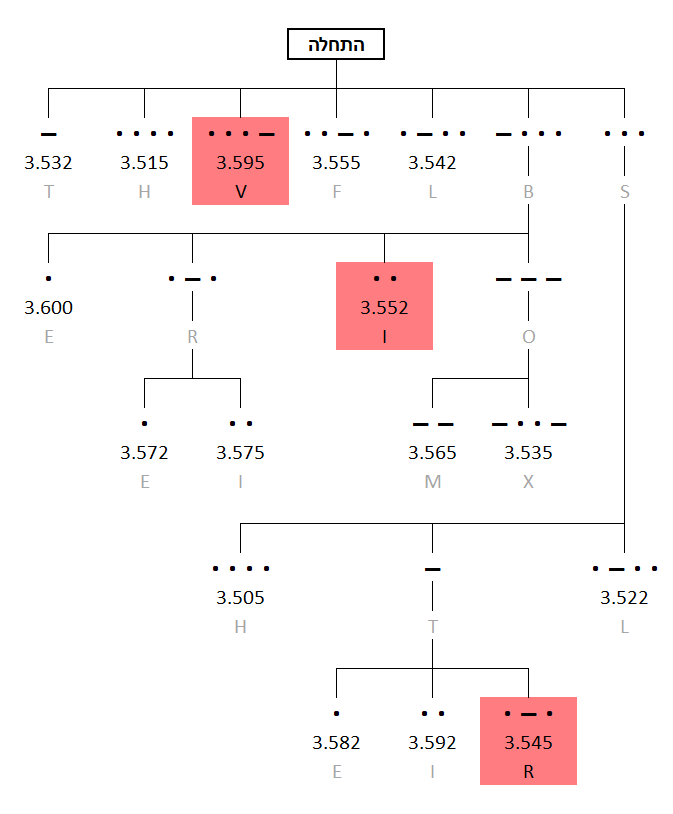
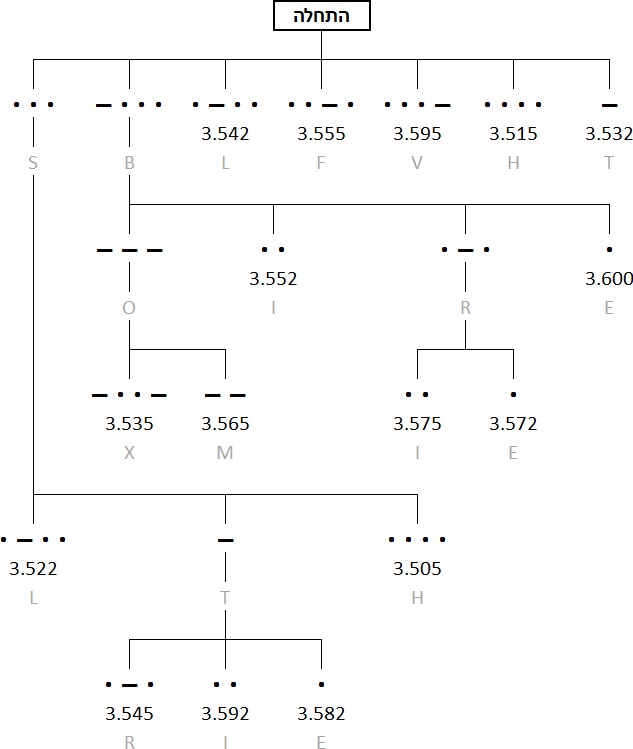
page 9: whos-on-first-step1 direction fix
rtl to ltr
+ small proofreading updates

diff --git a/manualsimplified/index.html b/manualsimplified/index.html
@@ -249,7 +249,7 @@
 								<span class="wire-header">5 חוטים:</span>
 								<br /><span><b><i>לשאול</i></b> '&#35; אחרונה בסיריאלי אי-זוגית'? 'צבע חוט חמישי'?</span>
 								<br /><span>אם (חמישי <span class='black'>שחור</span>) וגם (&#35; אחרונה אי-זוגית): לחתוך חוט רביעי.</span>
-                                <br /><span><b><i>לשאול</i></b> 'כמה <span class='red'>אדומים</span> / <span class='black'>שחורים</span> / <span class='yellow'>צהובים</span>'?</span>
+                                <br /><span><b><i>לשאול</i></b> 'כמה <span class='black'>שחורים</span> / <span class='red'>אדומים</span> / <span class='yellow'>צהובים</span>'?</span>
 								<br /><span>אם (<span class='black'>שחורים</span> = 0) וגם [(<span class='red'>אדומים</span> &#8800; 1) או (<span class='yellow'>צהובים</span> &#60; 2)]: לחתוך חוט שני.</span>
 								<br /><span>אחרת, לחתוך חוט ראשון.</span>
 							</td>
@@ -1031,7 +1031,7 @@
 					<h2>בנושא הזיכרון</h2>
 					<p class="flavour-text">זיכרון הוא דבר רגיש, אך כך גם כל דבר אחר כשמדובר פצצה, אז שימו לב!</p>
 					<ul>
-						<li>יש ללחוץ על הכפתור הנכון כדי להמשיך את המודול לשלב הבא. כדי לנטרל את המודול יש להשלים את כל השלבים.</li>
+						<li>יש ללחוץ על הכפתור הנכון כדי שהמודול ימשיך אל השלב הבא. כדי לנטרל את המודול יש להשלים את כל השלבים.</li>
 						<li>לחיצה על כפתור שגוי תאפס את המודול בחזרה לשלב 1.</li>
 						<li>מיקומי הכפתור מסודרים משמאל לימין.</li>
 					</ul>
@@ -1119,7 +1119,7 @@
 					<h2>בנושא החוטים המסובכים</h2>
 					<p class="flavour-text">חוטים אלה אינם כמו האחרים. לחלקם יש פסים! זה הופך אותם לשונים לחלוטין. החדשות הטובות הן שמצאנו קבוצה תמציתית של הוראות מה לעשות בנדון! אולי תמציתי מדי&hellip;</p>
 					<ul>
-						<li>התבוננו בכל חוט: יש נורית לד מעל החוט, ומתחתיו מקום לסמל "&#9733;"</li>
+						<li>התבוננו בכל חוט: יש נורית לד מעל החוט, ומתחתיו מקום לסמל "&#9733;".</li>
 						<li>עבור <b>כל שילוב</b> של חוט, נורית לד וסמל - השתמשו בדיאגרמת ון שלהלן כדי להחליט אם לחתוך את החוט או לא.</li>
 						<li>כל חוט עשוי להיות מורכב מפסים במספר צבעים.</li>
 					</ul>
@@ -1976,7 +1976,7 @@
 					<div class="new-block-formatting-context">
 						<h1>סעיף 2: מודולים תלותיים</h1>
 						<p>לא ניתן לנטרל את המודולים התלותיים, אך אלה מהווים סכנה חוזרת ונשנית.</p>
-						<p>מודולים תלותיים ניתנים לזיהוי באמצעות מונה הזמן הדו&#8209;ספרתי הקטן שבחלקם העליון. אינטראקציה עם הפצצה עלולה לגרום להפעלתם. מרגע ההפעלה, יש לטפל במודולים תלותיים אלה באופן חוזר ונשנה לפני שנגמר הזמן שלהם כדי למנוע פסילה</p>
+						<p>מודולים תלותיים ניתנים לזיהוי באמצעות מונה הזמן הדו&#8209;ספרתי הקטן שבחלקם העליון. אינטראקציה עם הפצצה עלולה לגרום להפעלתם. מרגע ההפעלה, יש לטפל במודולים תלותיים אלה באופן חוזר ונשנה לפני שנגמר הזמן שלהם כדי למנוע פסילה.</p>
 						<p>הישארו דרוכים: מודולים תלותיים עשויים להפעיל עצמם מחדש בכל עת.</p>
 					</div>
 				</div>
@@ -2049,8 +2049,8 @@
 					<ul>
 						<li>ניתן להפנות את הידית לאחד מארבעה מצבים.</li>
 						<li>על הידית להיות במצב הנכון כאשר מונה הזמן של המודול מגיע לאפס.</li>
-						<li>את המיקום הנכון ניתן לקבוע על סמך תצורת ההפעלה (דולק/כבוי) של שתים-עשרה נוריות הלד.</li>
-						<li>מצבי הידית הן ביחס לתווית "למעלה", שעלולה להיות מסובבת.</li>
+						<li>את המיקום הנכון ניתן לקבוע על סמך תצורת ההפעלה (מוארת/כבויה) של שתים-עשרה נוריות הלד.</li>
+						<li>מצבי הידית הן ביחס לתווית "UP", שעלולה להיות מסובבת.</li>
 					</ul>
                     <br>
                     <table align="center" style="border:none;">
@@ -2060,7 +2060,7 @@
                                 <td style="border:none;">התווית "UP" עלולה שלא להופיע כלפי מעלה</td>
                             </tr>
                             <tr>
-                                <td style="border:none;"><img src="img/knobs/left-6.png" width="150"></td>
+                                <td style="border:none;"><img src="img/knobs/left-6.png" width="151"></td>
                                 <td style="border:none;"><img src="img/knobs/knob-rotated.png" width="50"></td>
                             </tr>
                         </tbody>
@@ -2079,12 +2079,12 @@
 					        </tr>
 					        <tr>
 					            <td><center><img src="img/knobs/knob-down.png" width="60" /><br>למטה</center></td>
-					            <td><center><img src="img/knobs/down-setting.png" width="150" style="min-width: 150px;min-height: 95px;" /></td>
+					            <td><center><img src="img/knobs/down-setting.png" width="151" style="min-width: 151px;min-height: 95px;" /></td>
 					            <td><img src="img/knobs/light-indicator.png" width="50" /> x3</center></td>
 					        </tr>
 					        <tr>
 					            <td><center><img src="img/knobs/knob-right.png" width="60" /><br>ימין</center></td>
-					            <td colspan="2"><center><img src="img/knobs/right-setting.png" width="150" style="min-width: 150px;min-height: 95px;" /></td>
+					            <td colspan="2"><center><img src="img/knobs/right-setting.png" width="151" style="min-width: 151px;min-height: 95px;" /></td>
 					        </tr>
 					    </tbody>
 					</table>
@@ -2106,9 +2106,9 @@
 				<div class="page-footer absolute-footer">עמוד 21 מתוך 23</div>
 				<div class="page-content">
 					<h2>נספח א': זיהוי נורות בקרה</h2>
-					<p>את נורות הבקרה המסומנות בתווית ניתן למצוא על גבי צידי הפצצה.</p>
+					<p>נורות בקרה מתויגות ניתן למצוא על גבי צידי הפצצה.</p>
 					<img src="img/IndicatorWidget.svg" id="appendix-indicator-img" />
-					<h3>תוויות נפוצות</h3>
+					<h3>תיוגים נפוצים</h3>
 					<ul>
 						<li>SND</li>
 						<li>CLR</li>

diff --git a/manual/index.html b/manual/index.html
@@ -1165,7 +1165,7 @@
 					<h2>בנושא הזיכרון</h2>
 					<p class="flavour-text">זיכרון הוא דבר רגיש, אך כך גם כל דבר אחר כשמדובר פצצה, אז שימו לב!</p>
 					<ul>
-						<li>יש ללחוץ על הכפתור הנכון כדי להמשיך את המודול לשלב הבא. כדי לנטרל את המודול יש להשלים את כל השלבים.</li>
+						<li>יש ללחוץ על הכפתור הנכון כדי שהמודול ימשיך אל השלב הבא. כדי לנטרל את המודול יש להשלים את כל השלבים.</li>
 						<li>לחיצה על כפתור שגוי תאפס את המודול בחזרה לשלב 1.</li>
 						<li>מיקומי הכפתור מסודרים משמאל לימין.</li>
 					</ul>
@@ -1307,7 +1307,7 @@
 					<h2>בנושא החוטים המסובכים</h2>
 					<p class="flavour-text">חוטים אלה אינם כמו האחרים. לחלקם יש פסים! זה הופך אותם לשונים לחלוטין. החדשות הטובות הן שמצאנו קבוצה תמציתית של הוראות מה לעשות בנדון! אולי תמציתי מדי&hellip;</p>
 					<ul>
-						<li>התבוננו בכל חוט: יש נורית לד מעל החוט, ומתחתיו מקום לסמל "&#9733;"</li>
+						<li>התבוננו בכל חוט: יש נורית לד מעל החוט, ומתחתיו מקום לסמל "&#9733;".</li>
 						<li>עבור <b>כל שילוב</b> של חוט, נורית לד וסמל - השתמשו בדיאגרמת ון שלהלן כדי להחליט אם לחתוך את החוט או לא.</li>
 						<li>כל חוט עשוי להיות מורכב מפסים במספר צבעים.</li>
 					</ul>
@@ -1683,7 +1683,7 @@
 					<div class="new-block-formatting-context">
 						<h1>סעיף 2: מודולים תלותיים</h1>
 						<p>לא ניתן לנטרל את המודולים התלותיים, אך אלה מהווים סכנה חוזרת ונשנית.</p>
-						<p>מודולים תלותיים ניתנים לזיהוי באמצעות מונה הזמן הדו&#8209;ספרתי הקטן שבחלקם העליון. אינטראקציה עם הפצצה עלולה לגרום להפעלתם. מרגע ההפעלה, יש לטפל במודולים תלותיים אלה באופן חוזר ונשנה לפני שנגמר הזמן שלהם כדי למנוע פסילה</p>
+                        <p>מודולים תלותיים ניתנים לזיהוי באמצעות מונה הזמן הדו&#8209;ספרתי הקטן שבחלקם העליון. אינטראקציה עם הפצצה עלולה לגרום להפעלתם. מרגע ההפעלה, יש לטפל במודולים תלותיים אלה באופן חוזר ונשנה לפני שנגמר הזמן שלהם כדי למנוע פסילה.</p>
 						<p>הישארו דרוכים: מודולים תלותיים עשויים להפעיל עצמם מחדש בכל עת.</p>
 					</div>
 				</div>
@@ -1740,8 +1740,8 @@
 					<ul>
 						<li>ניתן להפנות את הידית לאחד מארבעה מצבים.</li>
 						<li>על הידית להיות במצב הנכון כאשר מונה הזמן של המודול מגיע לאפס.</li>
-						<li>את המיקום הנכון ניתן לקבוע על סמך תצורת ההפעלה (דולק/כבוי) של שתים-עשרה נוריות הלד.</li>
-						<li>מצבי הידית הן ביחס לתווית "למעלה", שעלולה להיות מסובבת.</li>
+						<li>את המיקום הנכון ניתן לקבוע על סמך תצורת ההפעלה (מוארת/כבויה) של שתים-עשרה נוריות הלד.</li>
+						<li>מצבי הידית הן ביחס לתווית "UP", שעלולה להיות מסובבת.</li>
 					</ul>
 					<h3>תצורות נוריות לד</h3>
 					<h4><span>מיקום הידית למעלה</span>:</h4>
@@ -1907,9 +1907,9 @@
 				<div class="page-footer absolute-footer">עמוד 21 מתוך 23</div>
 				<div class="page-content">
 					<h2>נספח א': זיהוי נורות בקרה</h2>
-					<p>את נורות הבקרה המסומנות בתווית ניתן למצוא על גבי צידי הפצצה.</p>
+					<p>נורות בקרה מתויגות ניתן למצוא על גבי צידי הפצצה.</p>
 					<img src="img/IndicatorWidget.svg" id="appendix-indicator-img" />
-					<h3>תוויות נפוצות</h3>
+					<h3>תיוגים נפוצים</h3>
 					<ul>
 						<li>SND</li>
 						<li>CLR</li>

diff --git a/manual/css/hebrew-fixes.css b/manual/css/hebrew-fixes.css
@@ -22,3 +22,7 @@ ol {
 .gamedisclaimer {
     font-family: 'Heebo', Arial, Helvetica, sans-serif;
 }
+
+.whos-on-first-step1-table {
+    direction: ltr;
+}
